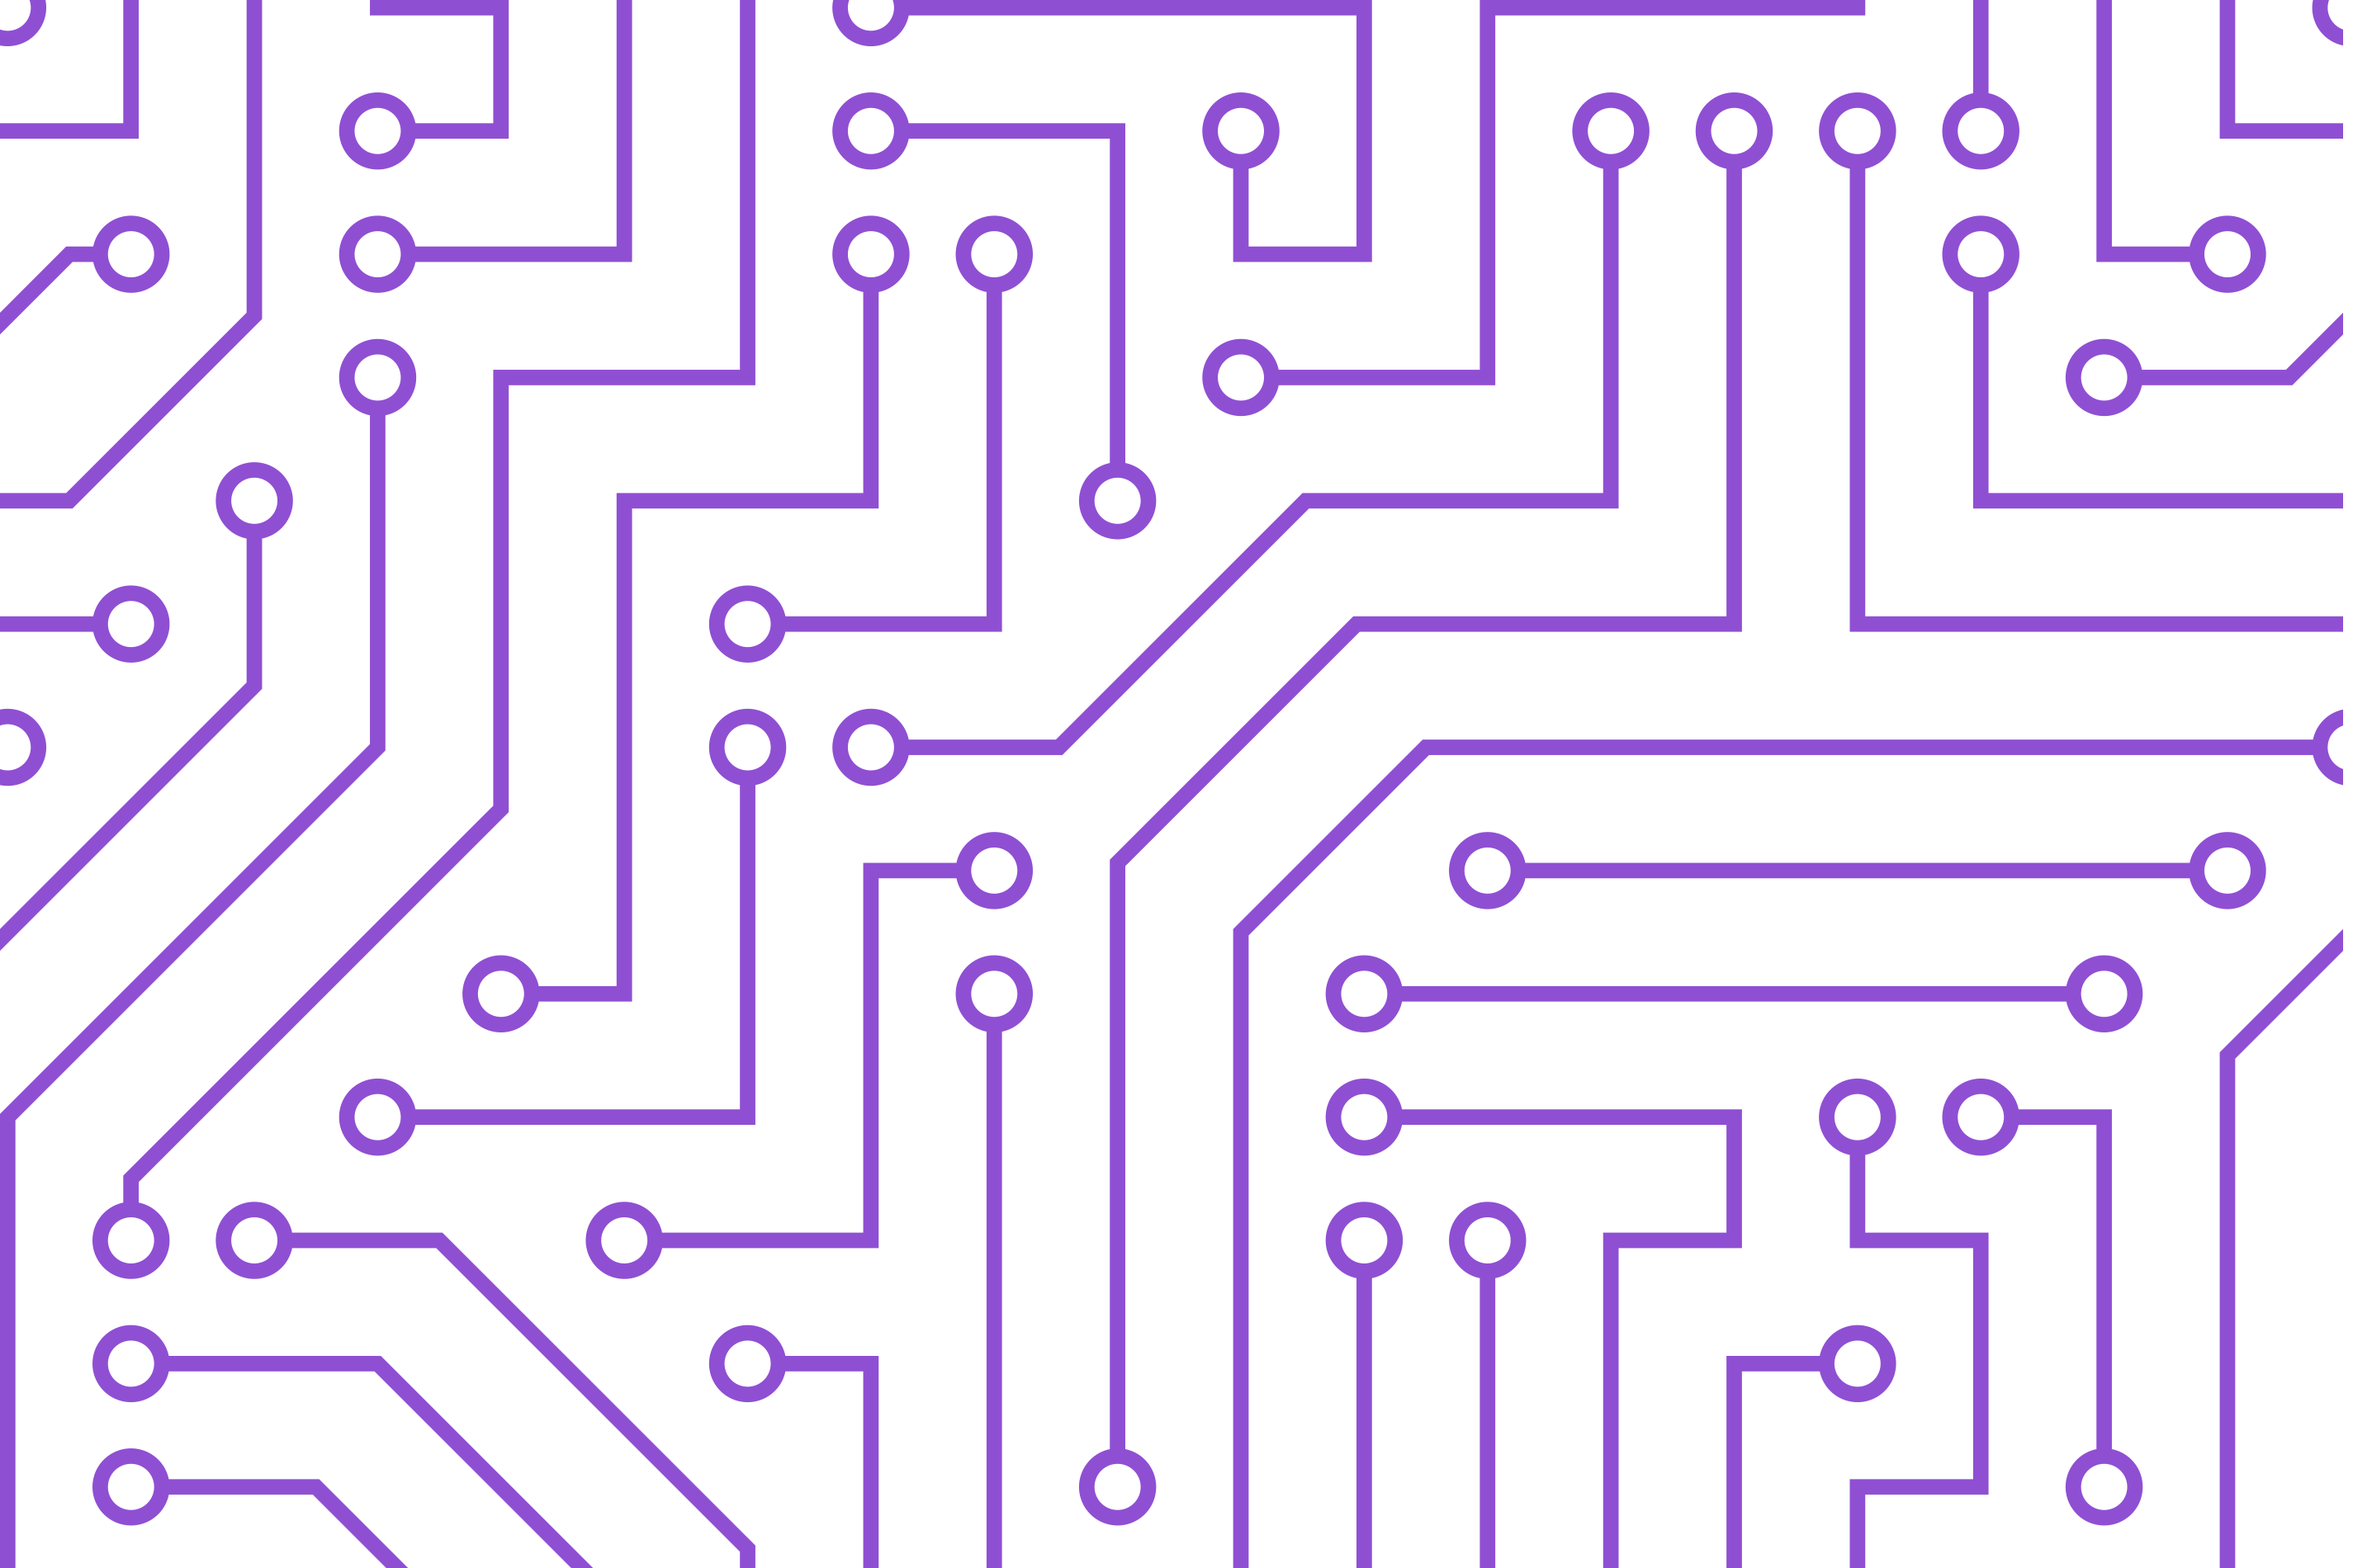
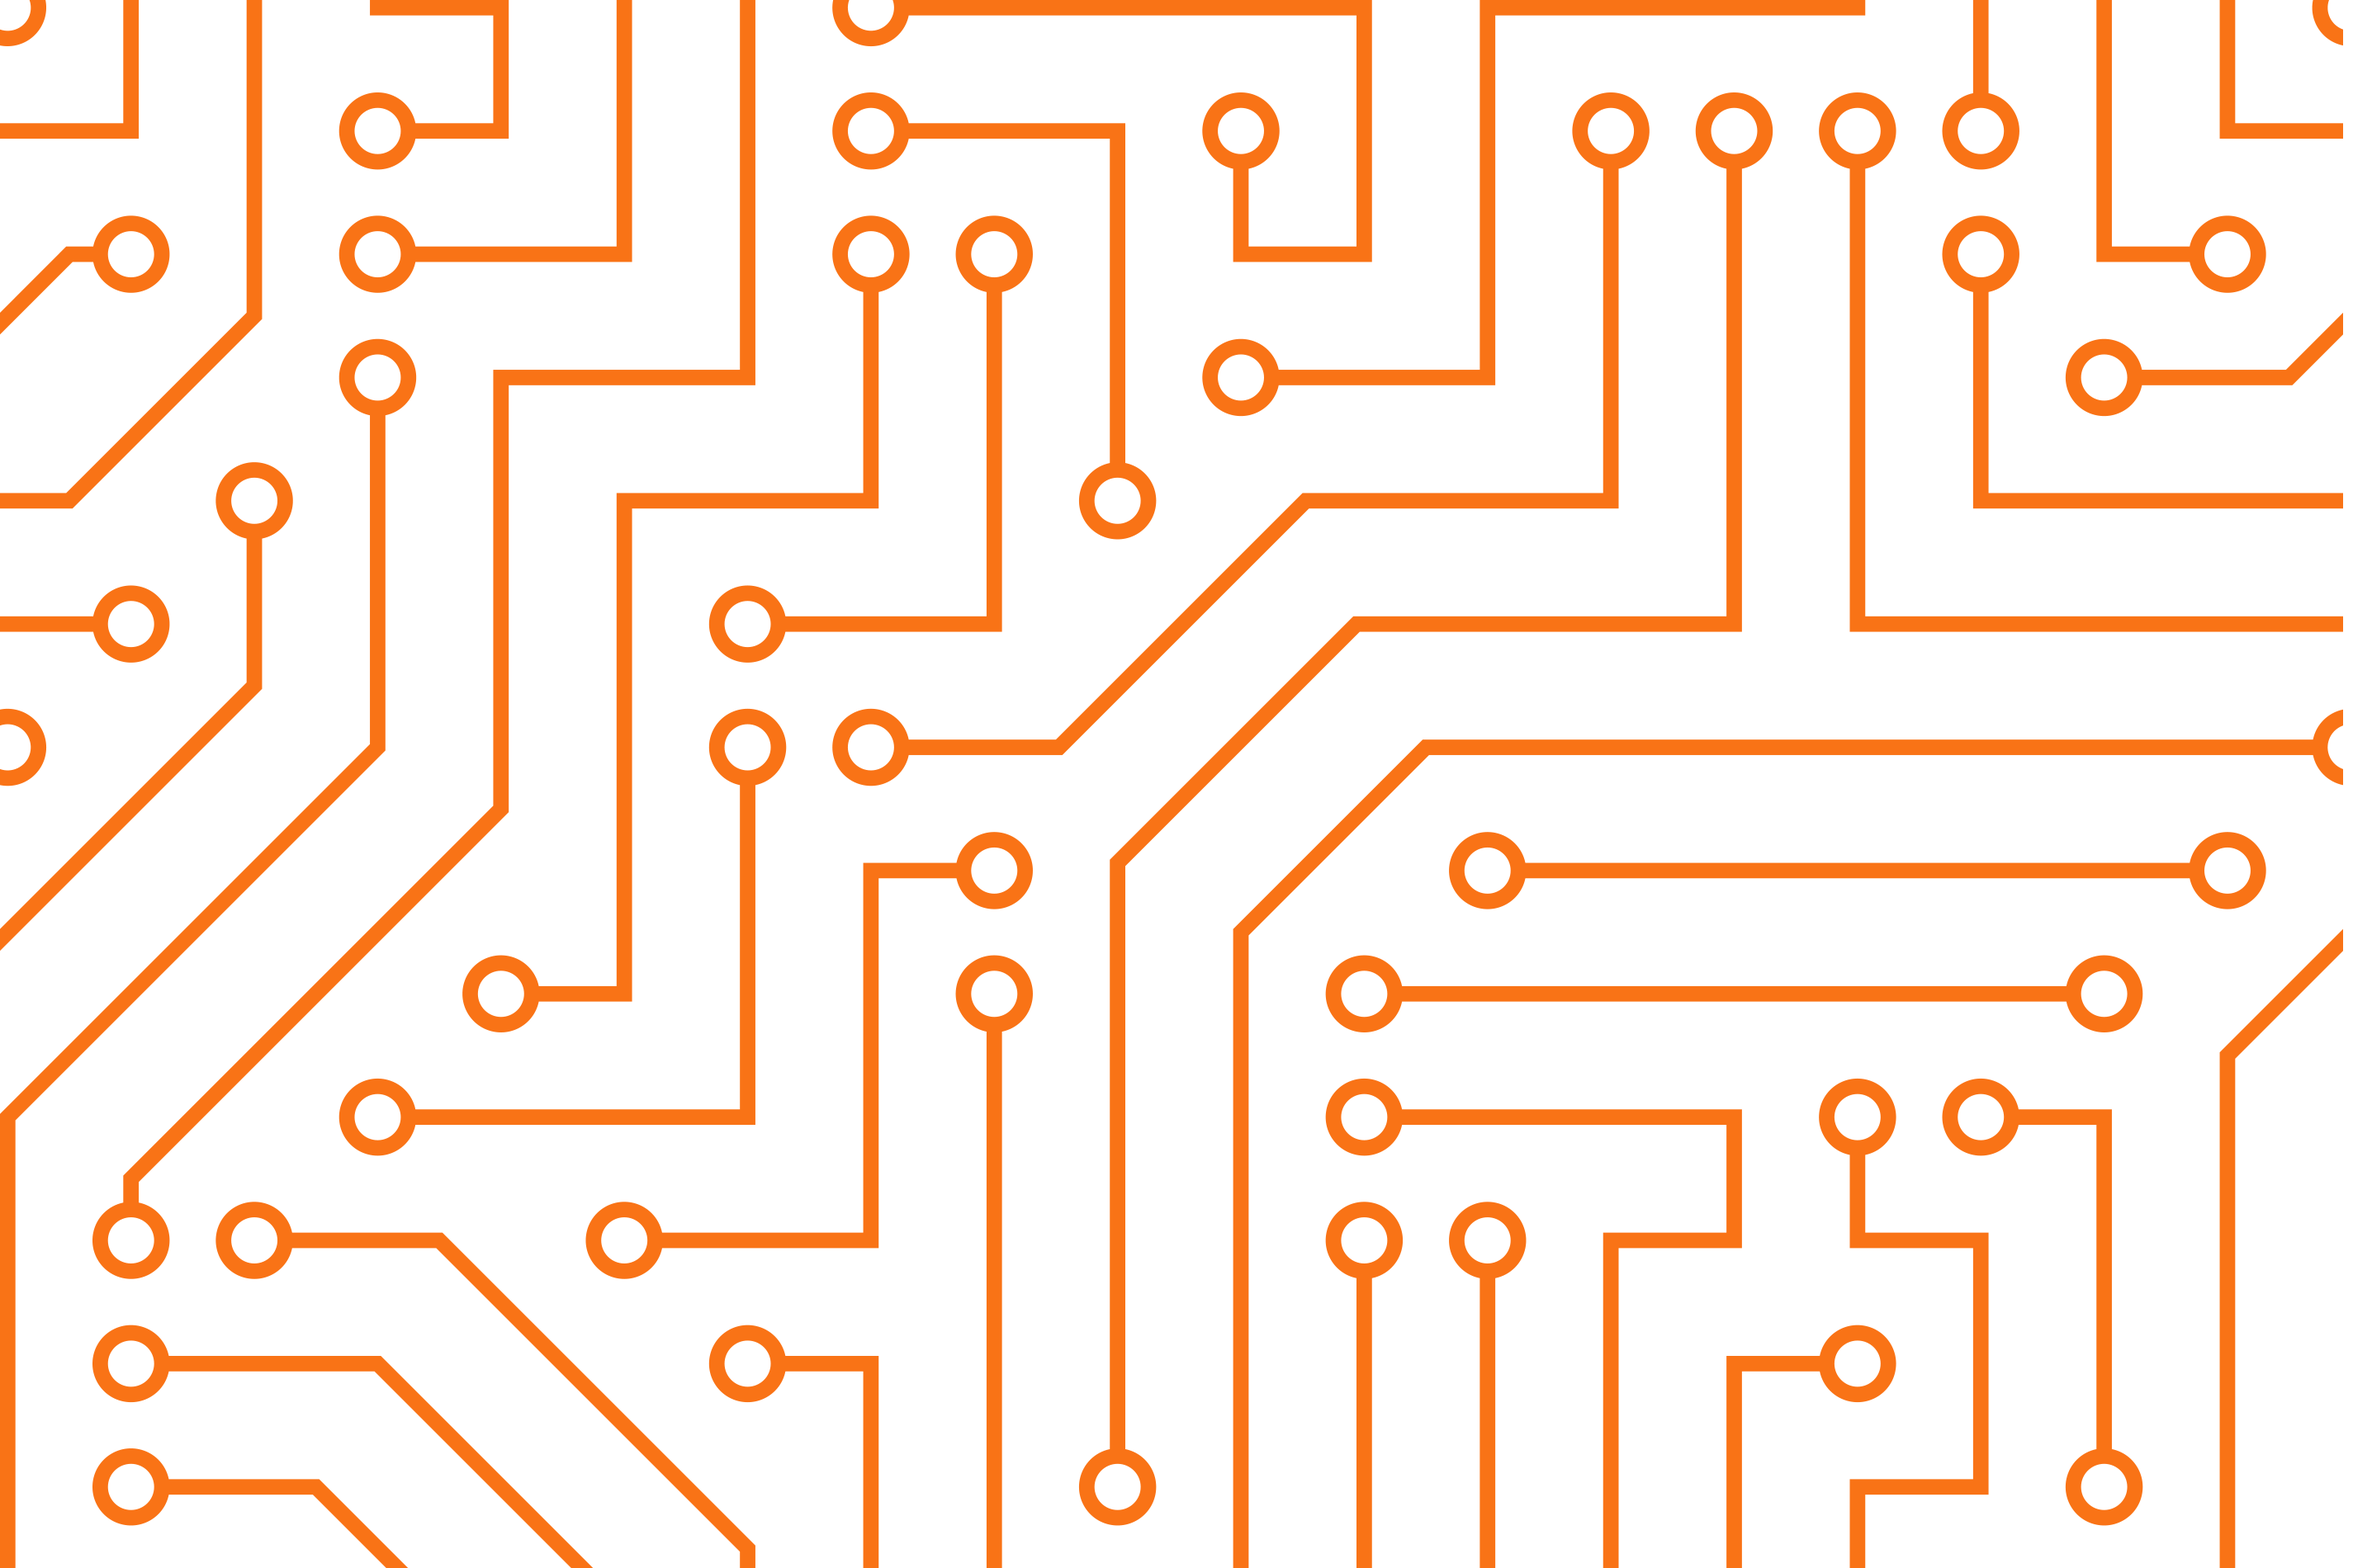
Added speaker link and fixed colors.

diff --git a/components/Landing/Hero.vue b/components/Landing/Hero.vue
@@ -1,12 +1,11 @@
 <template>
-  <div class="relative bg-white overflow-hidden">
+  <div class="relative bg-gray-900 overflow-hidden">
     <div class="max-w-7xl mx-auto">
       <div
         class="
           relative
           z-10
           pb-8
-          bg-white
           sm:pb-16
           md:pb-20
           lg:max-w-2xl lg:w-full lg:pb-28
@@ -22,9 +21,9 @@
             inset-y-0
             h-full
             w-48
-            text-white
+            text-gray-900
             transform
-            translate-x-1/2
+            translate-x-1/3
           "
           fill="currentColor"
           viewBox="0 0 100 100"
@@ -62,14 +61,14 @@
                     <button
                       type="button"
                       class="
-                        bg-white
+                        bg-gray-800
                         rounded-md
                         p-2
                         inline-flex
                         items-center
                         justify-center
-                        text-gray-400
-                        hover:text-gray-500 hover:bg-gray-100
+                        text-gray-200
+                        hover:text-gray-400 hover:bg-gray-100
                         focus:outline-none
                         focus:ring-2
                         focus:ring-inset
@@ -106,8 +105,8 @@
                   :to="item.link"
                   class="
                     font-medium
-                    text-gray-500
-                    hover:text-gray-900
+                    text-gray-200
+                    hover:text-gray-300
                     font-roboto
                   "
                   >{{ item.title }}</nuxt-link
@@ -217,7 +216,7 @@
                     rounded-md
                     text-base
                     font-medium
-                    text-gray-700
+                    text-gray-200
                     hover:text-gray-900 hover:bg-gray-50
                   "
                   >{{ item.title }}</nuxt-link
@@ -261,20 +260,20 @@
                 text-4xl
                 tracking-tight
                 font-extrabold
-                text-gray-900
+                text-white
                 sm:text-5xl
                 md:text-6xl
               "
             >
               <span class="block xl:inline">{{ header.title }}</span>
-              <span class="block xl:inline text-purple-600">{{
+              <span class="block xl:inline text-orange-500">{{
                 header.subTitle
               }}</span>
             </h1>
             <p
               class="
                 mt-3
-                text-base text-gray-500
+                text-base text-gray-200
                 sm:mt-5 sm:text-lg sm:max-w-xl sm:mx-auto
                 md:mt-5 md:text-xl
                 lg:mx-0
@@ -300,13 +299,37 @@
                     font-medium
                     rounded-md
                     text-white
-                    bg-purple-600
-                    hover:bg-purple-700
+                    bg-orange-600
+                    hover:bg-orange-700
                     md:py-4 md:text-lg md:px-10
                   "
                 >
                   {{ cta.title }}
                 </nuxt-link>
+              </div>
+              <div class="mt-3 sm:mt-0 sm:ml-3">
+                <a
+                  :href="cta2.link"
+                  :target="cta2.target"
+                  class="
+                    w-full
+                    flex
+                    items-center
+                    justify-center
+                    px-8
+                    py-3
+                    border border-transparent
+                    text-base
+                    font-medium
+                    rounded-md
+                    text-orange-700
+                    bg-orange-100
+                    hover:bg-orange-200
+                    md:py-4 md:text-lg md:px-10
+                  "
+                >
+                  {{ cta2.title }}
+                </a>
               </div>
             </div>
           </div>
@@ -356,6 +379,11 @@ export default {
       cta: {
         title: 'Watch the Lectures',
         link: '#lectures',
+      },
+      cta2: {
+        title: 'Be a speaker',
+        link: 'https://forms.gle/t3hHEpnoopXmRxaHA',
+        target: '_blank',
       },
     }
   },

diff --git a/tailwind.config.js b/tailwind.config.js
@@ -28,6 +28,7 @@ module.exports = {
     extend: {
       colors: {
         cyan: colors.cyan,
+        orange: colors.orange,
         brand: {
           discord: '#7289DA',
         },
